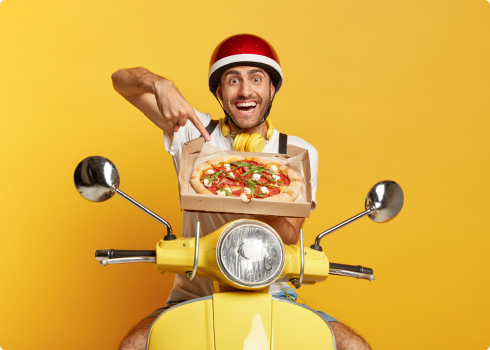
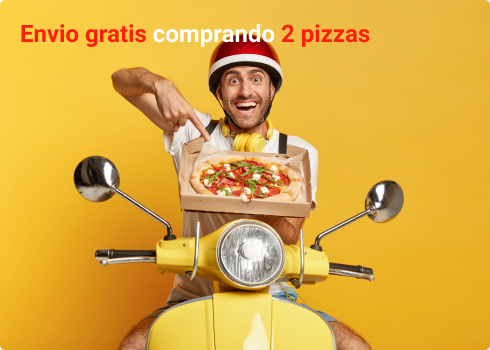
add missing text 😅

Changed region(s): [[0.0306, 0.0571, 0.7653, 0.1429]]

diff --git a/pizza_practice/index.html b/pizza_practice/index.html
@@ -27,13 +27,14 @@
     </header>
 
     <main>
+        <p class="texto_over"> Envío gratis <span id="shop"> comprando </span> dos pizzas </p>
+            
         <div class="principal">
 
             <div class="section1">
 
             </div>
-            <img id="foto_moto" src="img/delivery.png" alt=" foto_delivery">
-
+            <img id="foto_moto" src="img/delivery2.png" alt=" foto_delivery">
             <div class="section2">
                 <h2>Podio de pizzas</h2>
                 <div class="section_interior">

diff --git a/pizza_practice/css/styles.css b/pizza_practice/css/styles.css
@@ -74,6 +74,19 @@ main {
 
 }
 
+.texto_over {
+    font-weight: 700;
+    font-size: 24px;
+    color: #fc200c;
+    position: absolute;
+    top: 155px;
+    left: 38.98px
+}
+
+#shop{
+    color: #FFFFFF
+}
+
 #foto_moto {
     width: 490px;
     height: 370px;
